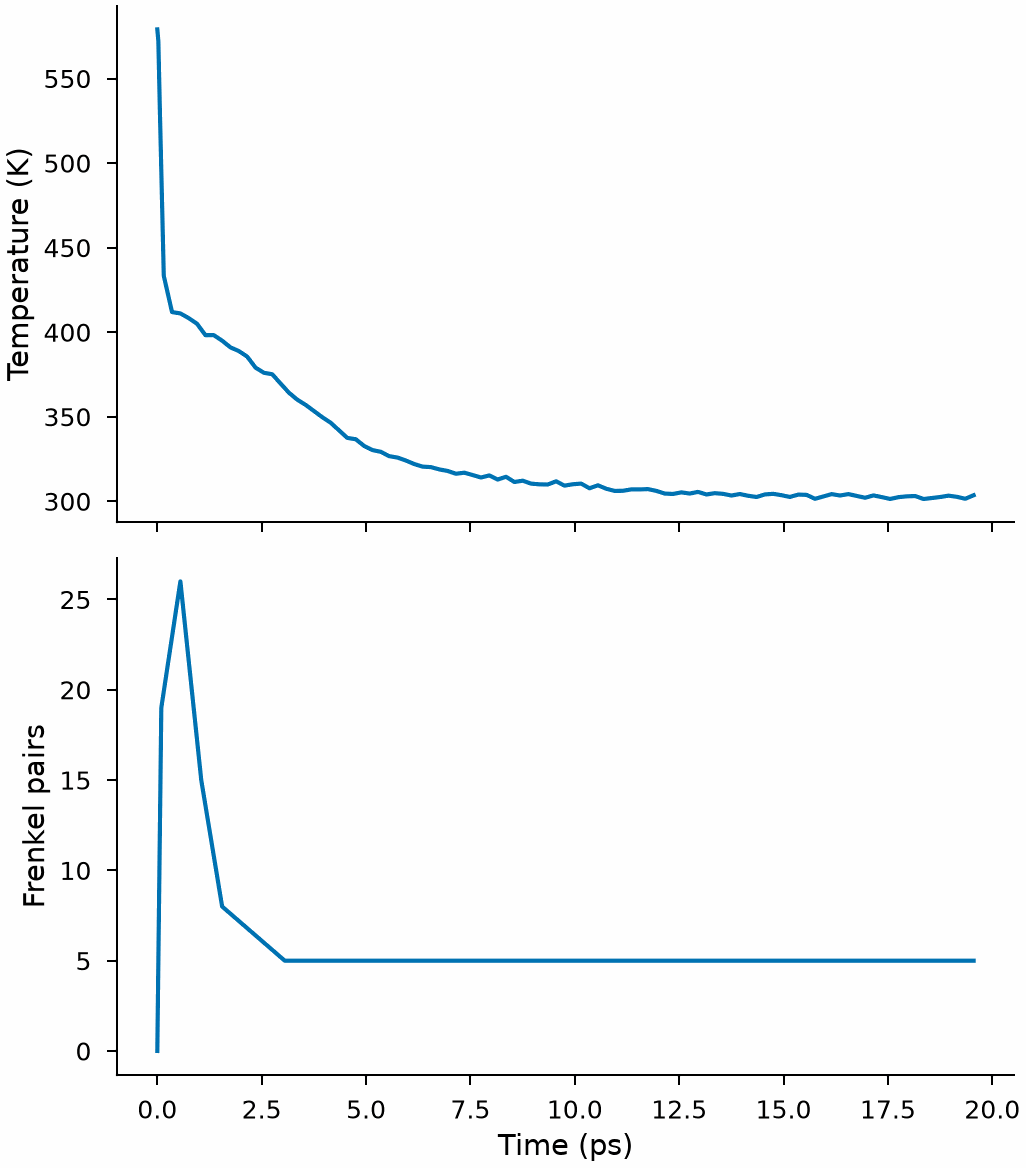
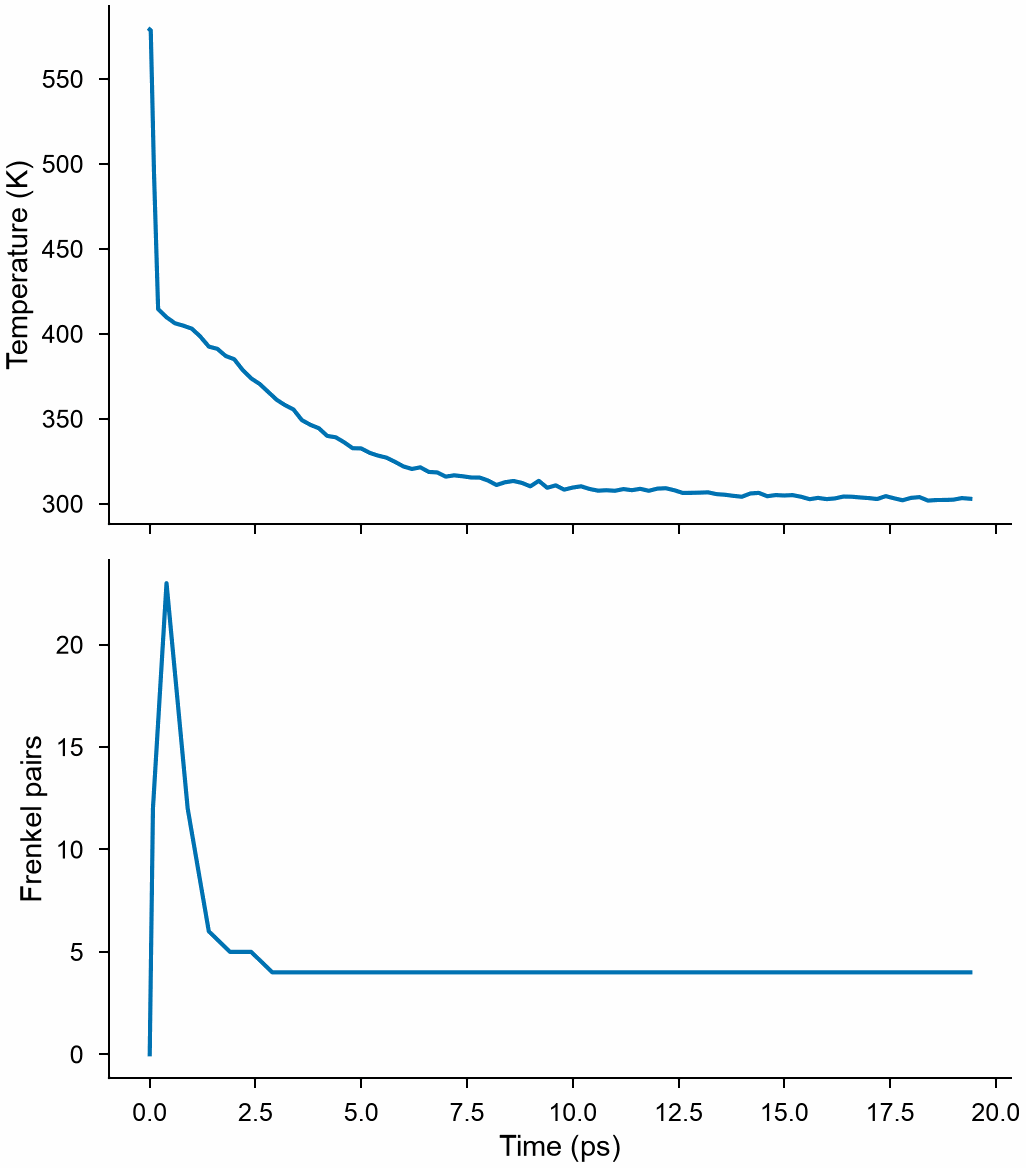
The cascade example in MDAPY's own dynamics on the GPU: NEP with device="cuda", an AdaptiveTimestep and a Langevin border in place of the fixes of LAMMPS; 23 Frenkel pairs at the peak and 4 at the end on one V100 in under three minutes. The pictures of the cascade and of the walls in 256 colors

diff --git a/docs/examples/radiation-cascade.md b/docs/examples/radiation-cascade.md
@@ -12,9 +12,8 @@ with 2 keV in tungsten and counts the defects with the
     [`nep.txt`](high-throughput/nep.txt), has a ZBL repulsion at short range, from 1 to
     2 Å: atoms that meet at the speeds of a cascade come much closer than in a crystal,
     where only such a repulsion describes them. A potential without one lets them
-    pass through each other. The molecular dynamics run in LAMMPS with the NEP of
-    KOKKOS, `pair_style nep/kk`, on a GPU, as in the
-    [example of CrCoNi](crconi.md#from-molecular-dynamics).
+    pass through each other. The molecular dynamics run in MDAPY with the NEP on a
+    [GPU](../user-guide/simulation/gpu.md), `device="cuda"`.
 
 <!-- files: high-throughput -->
 
@@ -25,16 +24,15 @@ with 2 keV in tungsten and counts the defects with the
 import numpy as np
 from mdapy import units
 from mdapy.build import build_crystal
-from mdapy.calculators import LAMMPS
+from mdapy.calculators import NEP
 from mdapy.simulation import MolecularDynamics, minimize
 from mdapy.transform import replicate
 
-gpu = LAMMPS(
-    "pair_style nep/kk\npair_coeff * * nep.txt W",
-    ["W"],
-    cmdargs=["-k", "on", "g", "1", "-sf", "kk", "-pk", "kokkos", "newton", "on", "neigh", "half"],
-)  # fmt: skip
-cell = minimize(build_crystal("bcc", 3.17, elements="W"), gpu, cell="full").system
+gpu = NEP("nep.txt", device="cuda")
+# the cell of two atoms on the processor: it is too small for the lists of the GPU
+cell = minimize(
+    build_crystal("bcc", 3.17, elements="W"), NEP("nep.txt"), cell="full"
+).system
 crystal = replicate(cell, (30, 30, 30))  # 54000 atoms, 9.5 nm wide
 
 with MolecularDynamics(crystal, gpu, timestep=0.002) as md:
@@ -78,25 +76,25 @@ np.linalg.norm(start["velocities"][pka])  # Å/ps, 458
 
 ## The cascade
 
-The time step adapts to the fastest atom, `fix dt/reset` of LAMMPS: no atom moves
+The time step adapts to the fastest atom, an
+[`AdaptiveTimestep`](../user-guide/simulation/adaptive-timestep.md): no atom moves
 more than 0.05 Å in a step, up to steps of 1 fs once the cascade has cooled. The atoms
-within 1 nm of the faces of the box keep 300 K and carry the heat of the cascade
-away, as the crystal around it would:
+within 1 nm of the faces of the box keep 300 K in a
+[`Langevin`](../user-guide/simulation/controls.md) bath and carry the heat of the
+cascade away, as the crystal around it would:
 
 <!-- skip-test -->
 ```python
+from mdapy.simulation import AdaptiveTimestep, Langevin
+
 L = start.box.lengths
+inside = start.box.to_fractional(start["positions"]) * L
+core = ((inside > 10) & (inside < L - 10)).all(axis=1)
+controls = [AdaptiveTimestep(0.05), Langevin(~core, 300.0, damping=0.1, seed=7)]
 with MolecularDynamics(start, gpu, timestep=0.001) as md:
-    md.command(
-        "fix adapt all dt/reset 1 NULL 0.001 0.05 units box\n"
-        f"region core block 10 {L[0] - 10} 10 {L[1] - 10} 10 {L[2] - 10}\n"
-        "group core region core\n"
-        "group border subtract all core\n"
-        "fix cool border langevin 300 300 0.1 7"
-    )
-    md.run(20000, ensemble="nve", thermo=200, save_every=500)
+    md.run(20000, ensemble="nve", thermo=200, save_every=500, controls=controls)
     thermo, frames = md.thermo, md.frames
-frames[-1].info["time"]  # ps, about 20: the steps grew from 0.2 fs to 1 fs
+frames[-1].info["time"]  # ps, about 19: the steps grew from 0.1 fs to 1 fs
 ```
 
 ## The defects
@@ -122,17 +120,17 @@ with plot.style():
     bottom.set_ylabel("Frenkel pairs")
     bottom.set_xlabel("Time (ps)")
     plot.save(fig, "images/radiation-cascade", formats=("png",))
-pairs.max(), pairs[-1]  # 26 at the peak of the cascade, about 5 at the end
+pairs.max(), pairs[-1]  # 23 at the peak of the cascade, 4 at the end
 ```
 
 ![The temperature and the Frenkel pairs of a cascade of 2 keV in tungsten](images/radiation-cascade.png)
 
-*A cascade of 2 keV in 54000 atoms of tungsten. The temperature of the box starts near
-580 K, as the 2 keV of the PKA count in the kinetic energy of all the atoms, and falls
-back to 300 K as the border takes the heat away. Of the 26 Frenkel pairs at half a
-picosecond, 5 are left after 3 ps: most of the atoms knocked out of their places fall
-back into vacancies as the cascade cools. The dynamics are chaotic, so another run, or
-another GPU, leaves a few more or fewer.*
+*A cascade of 2 keV in 54000 atoms of tungsten, under three minutes on one V100 GPU.
+The temperature of the box starts near 580 K, as the 2 keV of the PKA count in the
+kinetic energy of all the atoms, and falls back to 300 K as the border takes the heat
+away. Of the 23 Frenkel pairs at 0.4 ps, 4 are left after 3 ps: most of the atoms
+knocked out of their places fall back into vacancies as the cascade cools. The dynamics
+are chaotic, so another run, or another GPU, leaves a few more or fewer.*
 
 The vacancies and the interstitials at the end:
 
@@ -154,12 +152,13 @@ render(
 
 ![The vacancies and interstitials left by the cascade](images/radiation-cascade-defects.png)
 
-*The five vacancies in blue, at the center of the box where the cascade began, and the
-five interstitials around them in red, each two atoms sharing one site.*
+*The four vacancies in blue, at the center of the box where the cascade began, and the
+four interstitials around them in red, each two atoms sharing one site.*
 
 ## See also
 
 - [Wigner–Seitz analysis](../user-guide/analysis/wigner-seitz.md).
 - [Molecular dynamics](../user-guide/simulation/dynamics.md).
-- LAMMPS [`fix dt/reset`](https://docs.lammps.org/fix_dt_reset.html) and
-  [`fix langevin`](https://docs.lammps.org/fix_langevin.html).
+- [Adaptive time step](../user-guide/simulation/adaptive-timestep.md),
+  [Groups and controls](../user-guide/simulation/controls.md) and
+  [On the GPU](../user-guide/simulation/gpu.md).
